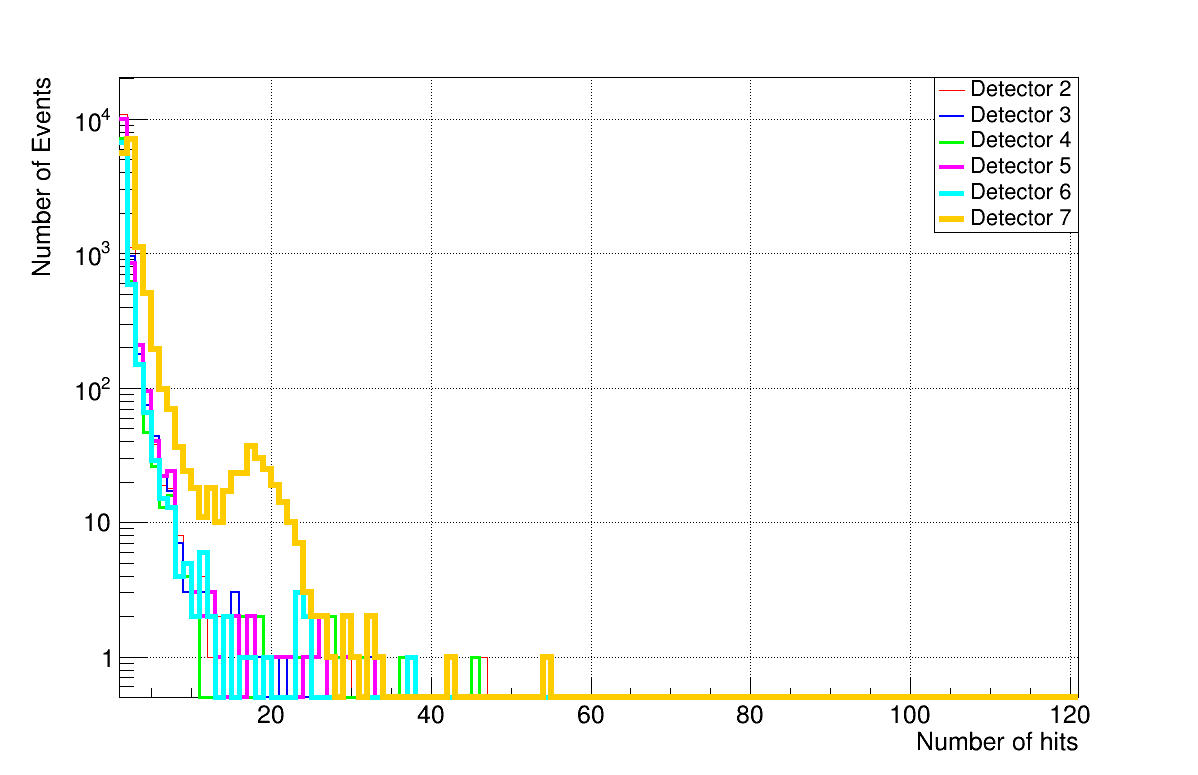
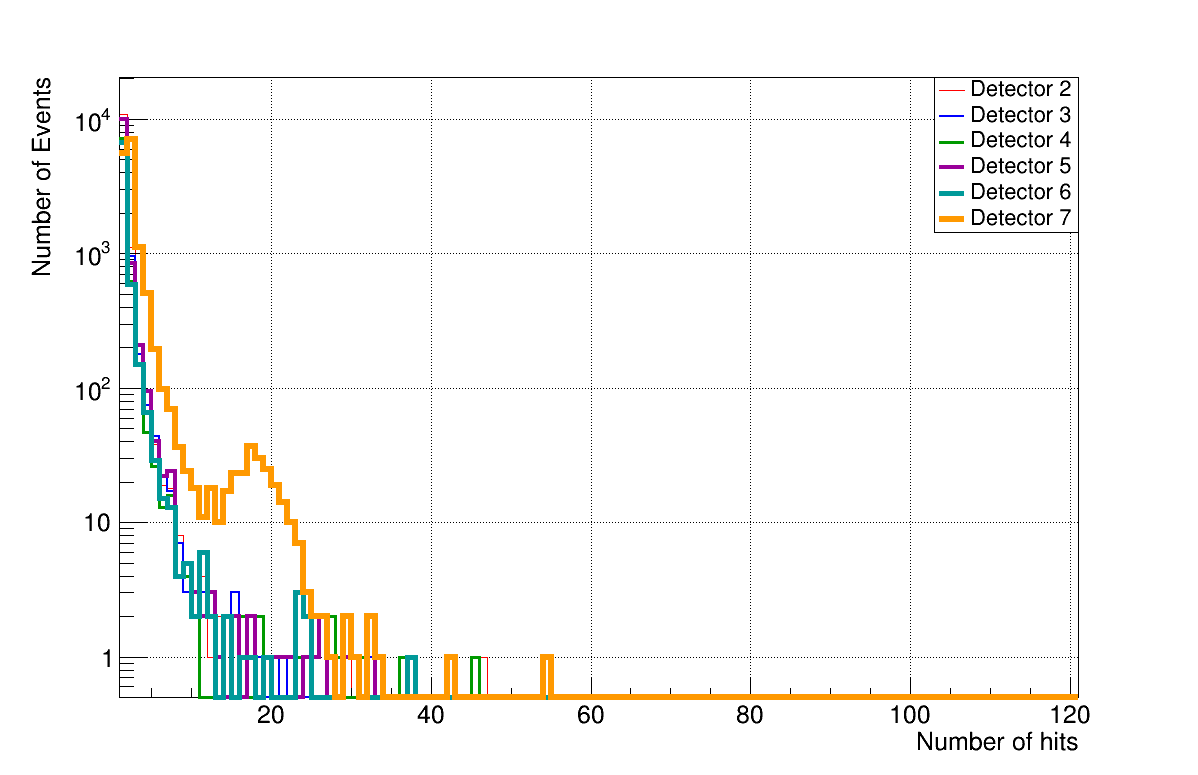
✨ Added plots, modified and code.

Changed region(s): [[0.0927, 0.1548, 0.8957, 0.929], [0.7721, 0.2477, 0.803, 0.3097]]

diff --git a/Data Analysis/plotsHV.C b/Data Analysis/plotsHV.C
@@ -11,7 +11,7 @@
 #include <ROOT/TThreadExecutor.hxx>
 #include <TStyle.h>
 #include <TLegend.h>
-#include <tuple>
+#include <TGraph.h>
 
 using namespace std;
 
@@ -69,7 +69,7 @@ StatsMap stats(const string& filePath)
         map<int, int> hitsCount;
         for (int id : ids) {
             hitsCount[id] = count(apv_id.begin(), apv_id.end(), id);
-            if (hitsCount[id] != 0) {
+            if (hitsCount[id] != 0 && hitsCount[id] <= 10) {
                 histogramsHits[id]->Fill(hitsCount[id]);
             }  
         }
@@ -104,26 +104,32 @@ StatsMap stats(const string& filePath)
         }
     }, {"apv_id", "apv_q"});
 
-    map<int, pair<double, double>> statsHits;
-    map<int, pair<double, double>> statsQ;
-    map<int, pair<double, double>> statsTQ;
+    map<int, pair<double, double>> statsHits; // mean, mean_error
+    map<int, pair<double, double>> statsQ;    // mean, mean_error
+    map<int, pair<double, double>> statsTQ;   // mean, mean_error
 
     for (int id : ids) {
         double mean = histogramsHits[id]->GetMean();
+        int N = histogramsHits[id]->GetEntries();
         double stddev = histogramsHits[id]->GetStdDev();
-        statsHits[id] = make_pair(mean, stddev);
+        double mean_error = stddev / sqrt(N);
+        statsHits[id] = make_pair(mean, mean_error);
     }
 
     for (int id : ids) {
         double mean = histogramsQ[id]->GetMean();
+        int N = histogramsQ[id]->GetEntries();
         double stddev = histogramsQ[id]->GetStdDev();
-        statsQ[id] = make_pair(mean, stddev);
+        double mean_error = stddev / sqrt(N);
+        statsQ[id] = make_pair(mean, mean_error);
     }
 
     for (int id : ids) {
         double mean = histogramsTQ[id]->GetMean();
+        int N = histogramsTQ[id]->GetEntries();
         double stddev = histogramsTQ[id]->GetStdDev();
-        statsTQ[id] = make_pair(mean, stddev);
+        double mean_error = stddev / sqrt(N);
+        statsTQ[id] = make_pair(mean, mean_error);
     }
 
     file->Close();
@@ -150,33 +156,104 @@ void plotsHV()
         "Data/run6616.root"
     };
 
-    for (const auto& file : files) {
-        auto statsMap = stats(file);
+    vector<double> hv_levels = {500, 520, 520, 540, 560, 580, 600, 480, 460, 440, 420};
+    map<int, vector<double>> hitsMeans;
+    map<int, vector<double>> hitsStdDevs;
+    map<int, vector<double>> tqMeans;
+    map<int, vector<double>> tqMeanErrors;
+
+    vector<int> ids = {8, 9, 10, 11, 12, 13};
+    int numFiles = files.size();
+
+    for (int id : ids) {
+        hitsMeans[id] = vector<double>(numFiles, 0);
+        hitsStdDevs[id] = vector<double>(numFiles, 0);
+        tqMeans[id] = vector<double>(numFiles, 0);
+        tqMeanErrors[id] = vector<double>(numFiles, 0);
+    }
+
+    for (size_t i = 0; i < files.size(); ++i) {
+        auto statsMap = stats(files[i]);
         auto& statsHits = get<0>(statsMap);
-        auto& statsQ = get<1>(statsMap);
         auto& statsTQ = get<2>(statsMap);
 
-        cout << "File: " << file << endl;
-
-        cout << "Hits Statistics:" << endl;
-        for (const auto& stat : statsHits) {
-            cout << "ID: " << stat.first << " Mean: " << stat.second.first << " StdDev: " << stat.second.second << endl;
+        for (int id : ids) {
+            hitsMeans[id][i] = statsHits[id].first; // Store the mean of hits
+            hitsStdDevs[id][i] = statsHits[id].second; // Store the standard deviation of hits
+            tqMeans[id][i] = statsTQ[id].first;
+            tqMeanErrors[id][i] = statsTQ[id].second;
         }
-
-        cout << "Charge Statistics:" << endl;
-        for (const auto& stat : statsQ) {
-            cout << "ID: " << stat.first << " Mean: " << stat.second.first << " StdDev: " << stat.second.second << endl;
-        }
-
-        cout << "Total Charge Statistics:" << endl;
-        for (const auto& stat : statsTQ) {
-            cout << "ID: " << stat.first << " Mean: " << stat.second.first << " StdDev: " << stat.second.second << endl;
-        }
-
-        cout << endl;
     }
+
+    TCanvas *c1 = new TCanvas("c1", "Cluster size vs High Voltage", 850, 600);
+    c1->SetGrid();
+
+    TLegend *legendHits = new TLegend(0.1, 0.7, 0.25, 0.9);
+//     legendHits->SetHeader("Detectors", "C");
+
+    vector<int> colors = {kRed, kBlue, kGreen+2, kMagenta+2, kCyan+2, kOrange-3};
+    vector<int> markers = {20, 21, 22, 23, 24, 25};
+    map<int, string> idToName = {{8, "2"}, {9, "3"}, {10, "4"}, {11, "5"}, {12, "6"}, {13, "7"}};  
+
+    TMultiGraph *mgHits = new TMultiGraph();
+
+    for (size_t i = 0; i < ids.size(); ++i) {
+        int id = ids[i];
+        string name = idToName[id];
+        TGraphErrors *graph = new TGraphErrors(numFiles, hv_levels.data(), hitsMeans[id].data(), nullptr, hitsStdDevs[id].data());
+        graph->SetTitle(Form("Detector %s", name.c_str()));
+        graph->SetMarkerColor(colors[i]);
+        graph->SetMarkerStyle(markers[i]);
+        graph->SetLineColor(colors[i]);
+        graph->SetLineWidth(1);
+        mgHits->Add(graph, "P"); // Add points only with error bars
+        legendHits->AddEntry(graph, Form("Detector %s", name.c_str()), "p");
+    }
+
+    mgHits->SetTitle("Cluster size vs High Voltage;HV (V);Cluster size");
+    mgHits->Draw("A");
+    legendHits->Draw();
+    c1->SaveAs("HV_vs_Clustersize.png");
+
+
+
+    TCanvas *c2 = new TCanvas("c2", "Total Charge vs High Voltage", 850, 600);
+    c2->SetGrid();
+
+    TLegend *legendTQ = new TLegend(0.1, 0.7, 0.25, 0.9);
+//     legendTQ->SetHeader("Detectors", "C"); 
+
+    TMultiGraph *mgTQ = new TMultiGraph();
+
+    for (size_t i = 0; i < ids.size(); ++i) {
+        int id = ids[i];
+        string name = idToName[id];
+        TGraphErrors *graph = new TGraphErrors(numFiles, hv_levels.data(), tqMeans[id].data(), nullptr, tqMeanErrors[id].data());
+        graph->SetTitle(Form("Detector %s", name.c_str()));
+        graph->SetMarkerColor(colors[i]);
+        graph->SetMarkerStyle(markers[i]);
+        graph->SetLineColor(colors[i]);
+        graph->SetLineWidth(1);
+        mgTQ->Add(graph, "P"); // Add points only with error bars
+        legendTQ->AddEntry(graph, Form("Detector %s", name.c_str()), "p");
+    }
+
+    mgTQ->SetTitle("Total Charge vs High Voltage;HV (V);Q (ADC)");
+    mgTQ->Draw("A");
+    legendTQ->Draw();
+    c2->SaveAs("HV_vs_Totalcharge.png");
+
+
+
+    delete c1;
+    delete legendHits;
+    delete c2;
+    delete legendTQ;
 }
 
-
+// int main() {
+//     plotsHV();
+//     return 0;
+// }
 
 

diff --git a/Data Analysis/histograms.cpp b/Data Analysis/histograms.cpp
@@ -58,7 +58,7 @@ void histograms()
                                    200, 0, 2000);
 
         histogramsTQ[id] = new TH1F(Form("hSumMaxCharge_%s", name.c_str()), 
-                                    Form("Sum of Maximum Charges for Detector %s;Charge;Number of Events", name.c_str()), 
+                                    Form("Total Charge for Detector %s;Charge;Number of Events", name.c_str()), 
                                     200, 0, 4000);
     }
 
@@ -135,12 +135,15 @@ void histograms()
     canvasHits->SetGridy();
 
     // Define colors for each histogram
-    vector<int> colors = {kRed, kBlue, kGreen, kMagenta, kCyan, kOrange};
+    vector<int> colors = {kRed, kBlue, kGreen+2, kMagenta+2, kCyan+2, kOrange-3};
 
     // Draw each histogram on the canvas
     for (size_t i = 0; i < ids.size(); ++i) {
         int id = ids[i];
         string name = idToName[id];
+
+        // double mean = histogramsHits[id]->GetMean();
+        // cout << "ID: " << id << "\t" << mean << endl;
         
         canvasHits->cd(i + 1); // Move to the next pad
         histogramsHits[id]->SetLineColor(colors[i]); // Set the color of the histogram
@@ -314,7 +317,6 @@ void histograms()
         gPad->Update(); // Update the pad to ensure the stats box is created
         TPaveStats *statsTQ = (TPaveStats*)histogramsTQ[id]->FindObject("stats");
         if (statsTQ) {
-            cout<<"yessssssssssssssssssss"<< endl;
             statsTQ->SetX1NDC(0.7); // New X1 position
             statsTQ->SetX2NDC(0.9); // New X2 position
             statsTQ->SetY1NDC(0.7); // New Y1 position
